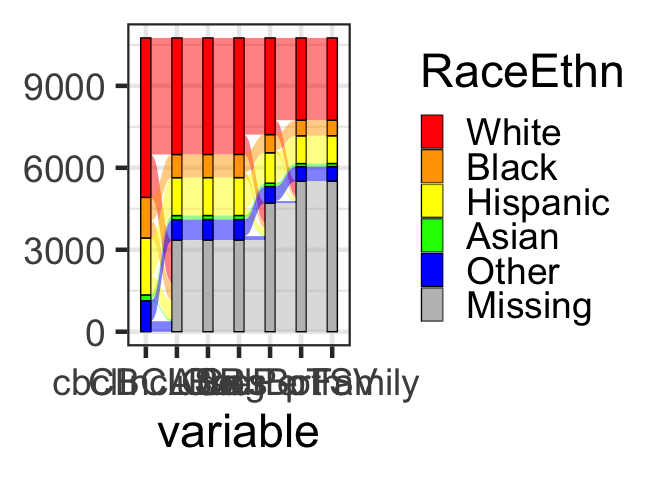
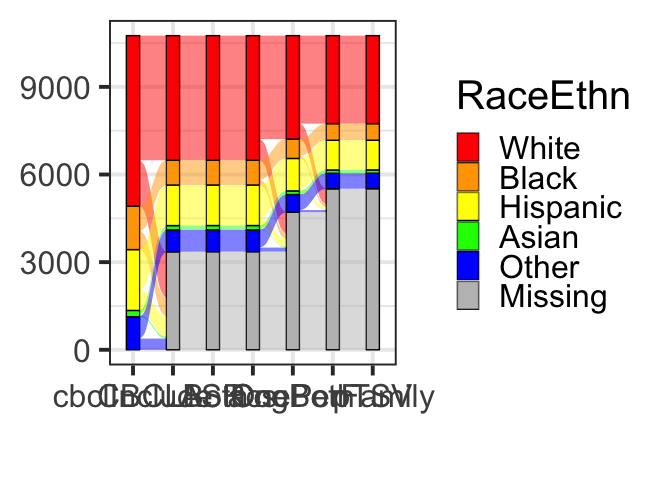
minor

diff --git a/Step1_SampleConstruction/SampleConstruction.md b/Step1_SampleConstruction/SampleConstruction.md
@@ -616,7 +616,7 @@ ggplot(test, aes(x = variable, stratum = RaceEthn, alluvium = subj)) +
   geom_stratum(aes(fill = RaceEthn)) +
   geom_flow(aes(fill = RaceEthn)) +
   scale_fill_manual(values = my_colors) +
-  theme_bw(base_size = 35)
+  theme_bw(base_size = 30)+xlab('')
 ```
 
 ![](SampleConstruction_files/figure-gfm/unnamed-chunk-13-1.png)<!-- -->
@@ -643,8 +643,8 @@ ggplot(startingdf, aes(x="", y=value, fill=RaceEthnicity)) +
   theme(axis.text = element_blank(),
         axis.ticks = element_blank(),
         panel.grid  = element_blank(),panel.background = element_blank(),
-        plot.title = element_text(size = 40),
-        legend.text = element_text(size=40),legend.title = element_text(size=40))
+        plot.title = element_text(size = 30),
+        legend.text = element_text(size=30),legend.title = element_text(size=30))+scale_fill_manual(values = my_colors)
 ```
 
 ![](SampleConstruction_files/figure-gfm/unnamed-chunk-14-1.png)<!-- -->
@@ -659,8 +659,8 @@ ggplot(endingdf, aes(x="", y=value, fill=RaceEthnicity)) +
   theme(axis.text = element_blank(),
         axis.ticks = element_blank(),
         panel.grid  = element_blank(),panel.background = element_blank(),
-        plot.title = element_text(size = 40),
-        legend.text = element_text(size=40),legend.title = element_text(size=40))
+        plot.title = element_text(size = 30),
+        legend.text = element_text(size=30),legend.title = element_text(size=30))+scale_fill_manual(values = my_colors)
 ```
 
 ![](SampleConstruction_files/figure-gfm/unnamed-chunk-14-2.png)<!-- -->
